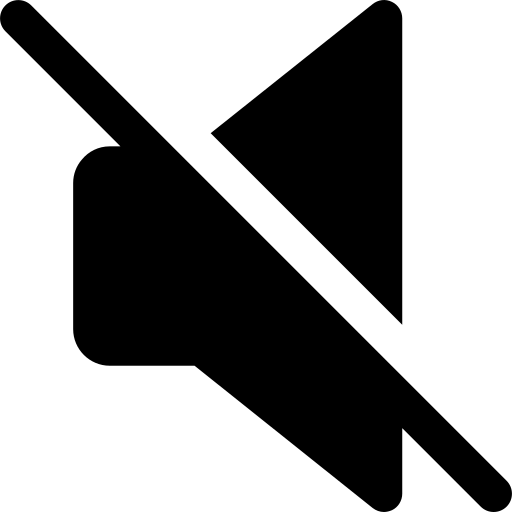
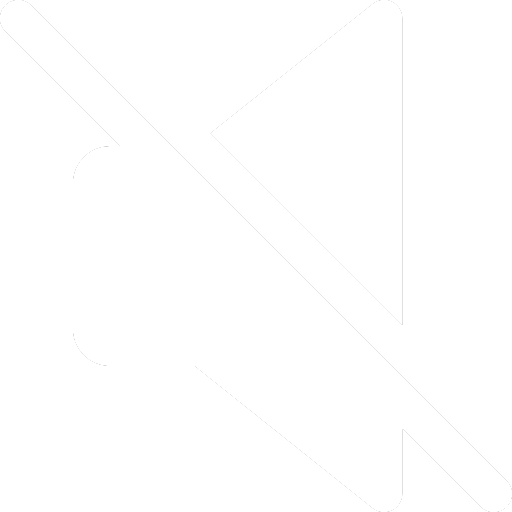
Sound and home buttons, background from pseudo to div

diff --git a/javascript/InputHandler.js b/javascript/InputHandler.js
@@ -1,16 +1,33 @@
 class InputHandler {
     constructor(game) {
         this.game = game;
-        this.btn = document.getElementById('start');
+        this.background = document.getElementById('home-background');
         this.intro = document.getElementById('intro');
         this.controls = document.getElementById('controls-container');
-        this.retry = document.getElementById('retry');
-        this.pause = document.getElementById('pause');
-        this.sound = document.getElementById('sound');
+        this.startBtn = document.getElementById('start');
+        this.retryBtn = document.getElementById('retry');
+        this.pauseBtn = document.getElementById('pause');
+        this.soundBtn = document.getElementById('sound');
+        this.homeBtn = document.getElementById('home');
 
         this.keysPressed = [];
 
-        this.sound.addEventListener('click', () => {
+        this.startBtn.addEventListener('click', () => {
+            this.background.style.display = 'none';
+            this.intro.style.display = 'none';
+            this.controls.style.display = 'flex';
+            this.game.hasStarted = true;
+            this.game.resize(window.innerWidth, window.innerHeight);
+        });
+
+        this.retryBtn.addEventListener('click', () => {
+            this.game.resize(window.innerWidth, window.innerHeight);
+        });
+        this.pauseBtn.addEventListener('click', e => {
+            e.preventDefault();
+            this.togglePause();
+        });
+        this.soundBtn.addEventListener('click', () => {
             if (this.game.soundOn) {
                 this.game.soundOn = false;
                 document.querySelector('#sound img').src = './img/mute.png';
@@ -19,17 +36,11 @@ class InputHandler {
                 document.querySelector('#sound img').src = './img/volume.png';
             }
         });
-        this.btn.addEventListener('click', () => {
-            this.intro.style.display = 'none';
-            this.controls.style.display = 'flex';
-            this.game.hasStarted = true;
-        });
-        this.retry.addEventListener('click', () => {
-            this.game.resize(window.innerWidth, window.innerHeight);
-        });
-        this.pause.addEventListener('click', e => {
-            e.preventDefault();
-            this.togglePause();
+        this.homeBtn.addEventListener('click', () => {
+            this.background.style.display = 'block';
+            this.intro.style.display = 'flex';
+            this.controls.style.display = 'none';
+            this.game.hasStarted = false;
         });
 
         document.addEventListener('visibilitychange', () => (this.game.visibilityChanged = true));

diff --git a/style.css b/style.css
@@ -10,18 +10,21 @@ body * {
     box-sizing: border-box;
     font-family: 'Bungee', sans-serif;
 }
-body::before {
-    content: '';
-    background-image: url(./img/home-background.jpg);
+#home-background {
     position: fixed;
-    background-size: cover;
-    background-position: center;
     top: 0;
     left: 0;
     width: 100%;
     height: 100%;
-    z-index: -1;
+    z-index: 0;
+    background-image: url(./img/home-background.jpg);
+    position: fixed;
+    background-size: cover;
+    background-position: center;
 }
+/* body::before {
+    content: '';
+} */
 #canvas1 {
     position: absolute;
     top: 0;
@@ -142,13 +145,12 @@ p {
     left: 0;
     left: 50%;
     transform: translateX(-50%);
-    z-index: 2;
+    z-index: 10;
     font-size: 16px;
 }
 .controls-container span {
     display: inline-block;
     font-size: 10vh;
-
     line-height: 1;
     color: white;
     background-color: hsl(0, 100%, 50%);
@@ -160,7 +162,6 @@ p {
 }
 span img {
     max-width: 8vh;
-    filter: invert(100%) sepia(0%) saturate(4036%) hue-rotate(241deg) brightness(104%) contrast(105%);
 }
 .controls-container span:hover {
     background-color: hsl(0, 100%, 40%);
@@ -178,6 +179,17 @@ span img {
     }
 }
 
+@media (max-width: 500px) and (min-height: 500px) {
+    .controls-container {
+        padding-bottom: 0.5em;
+    }
+    .controls-container span {
+        font-size: 10vw;
+    }
+    span img {
+        max-width: 8vw;
+    }
+}
 @media (max-width: 700px) and (orientation: landscape) {
     #start {
         position: fixed;

diff --git a/index.html b/index.html
@@ -13,6 +13,7 @@
     </head>
     <body>
         <canvas id="canvas1"></canvas>
+        <div id="home-background"></div>
         <div class="assets">
             <img id="background" src="./img/background_single.png" alt="" />
             <img id="background2" src="./img/background_single2.png" alt="" />
@@ -68,6 +69,7 @@
             <span id="retry">R</span>
             <span id="pause">P</span>
             <span id="sound"><img src="./img/volume.png" alt="" /></span>
+            <span id="home"><img src="./img/home.png" alt="" /></span>
         </div>
         <script src="script.js" type="module" defer></script>
     </body>
